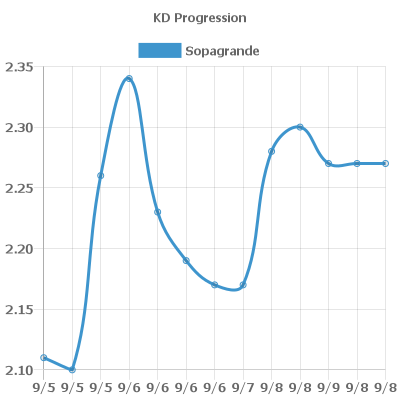
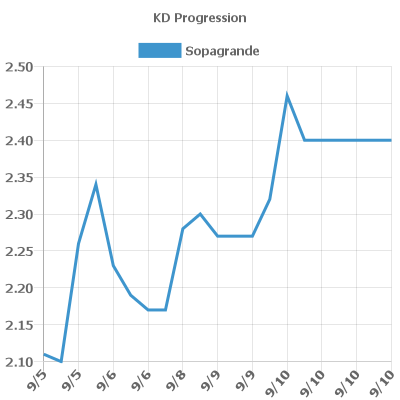
Straight Lines. Need to organize & comment code

diff --git a/bot.js b/bot.js
@@ -605,6 +605,14 @@ bot.on("message", function (user, userID, channelID, message, evt) {
                 display: true,
                 text: "KD Progression",
               },
+              elements: {
+                line: {
+                  tension: 0,
+                },
+                point: {
+                  radius: 0,
+                },
+              },
 
               backgroundColor: "rgba(251, 85, 85, 0.4)",
             },
